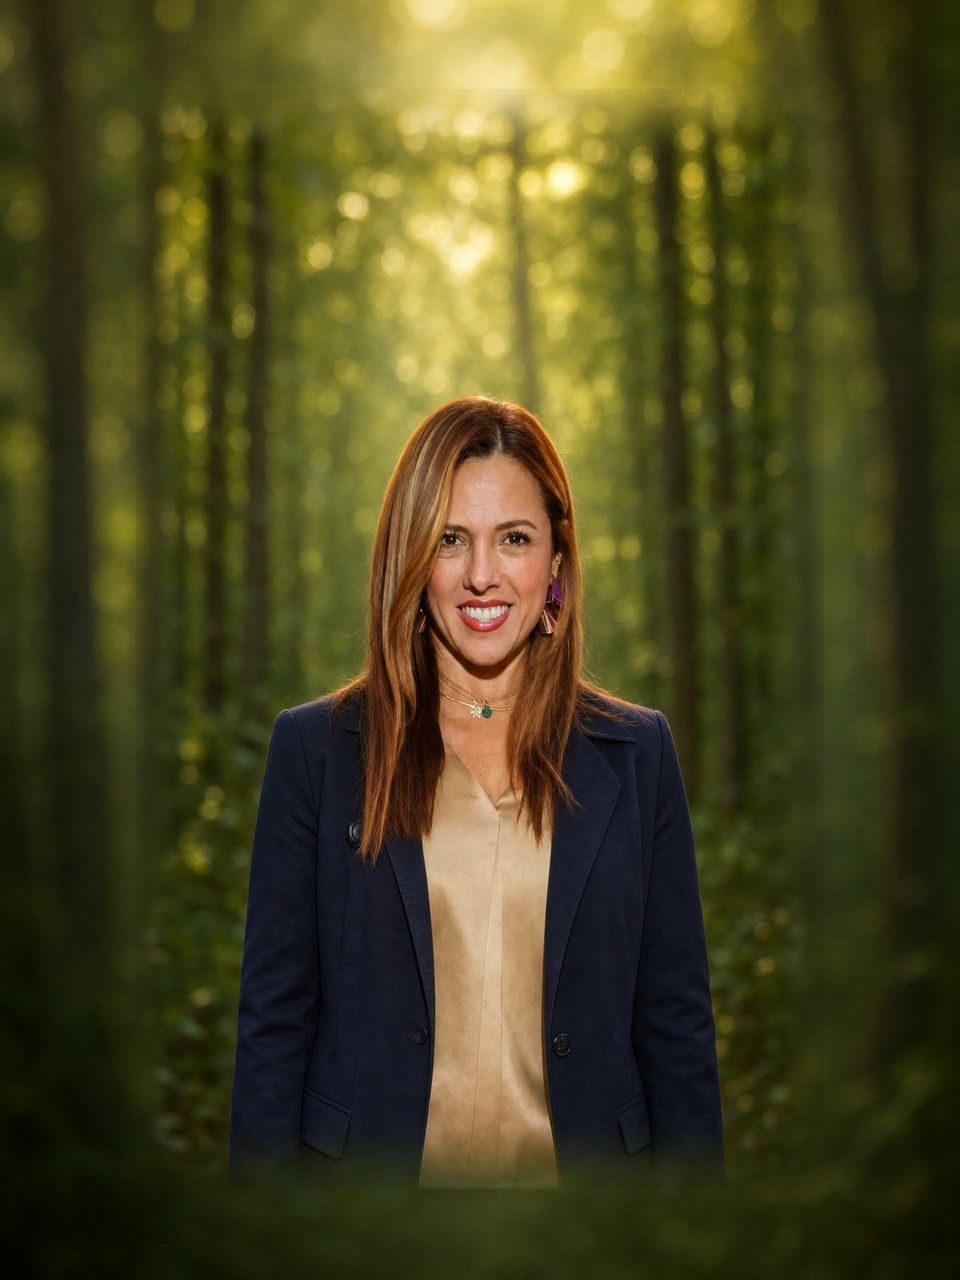
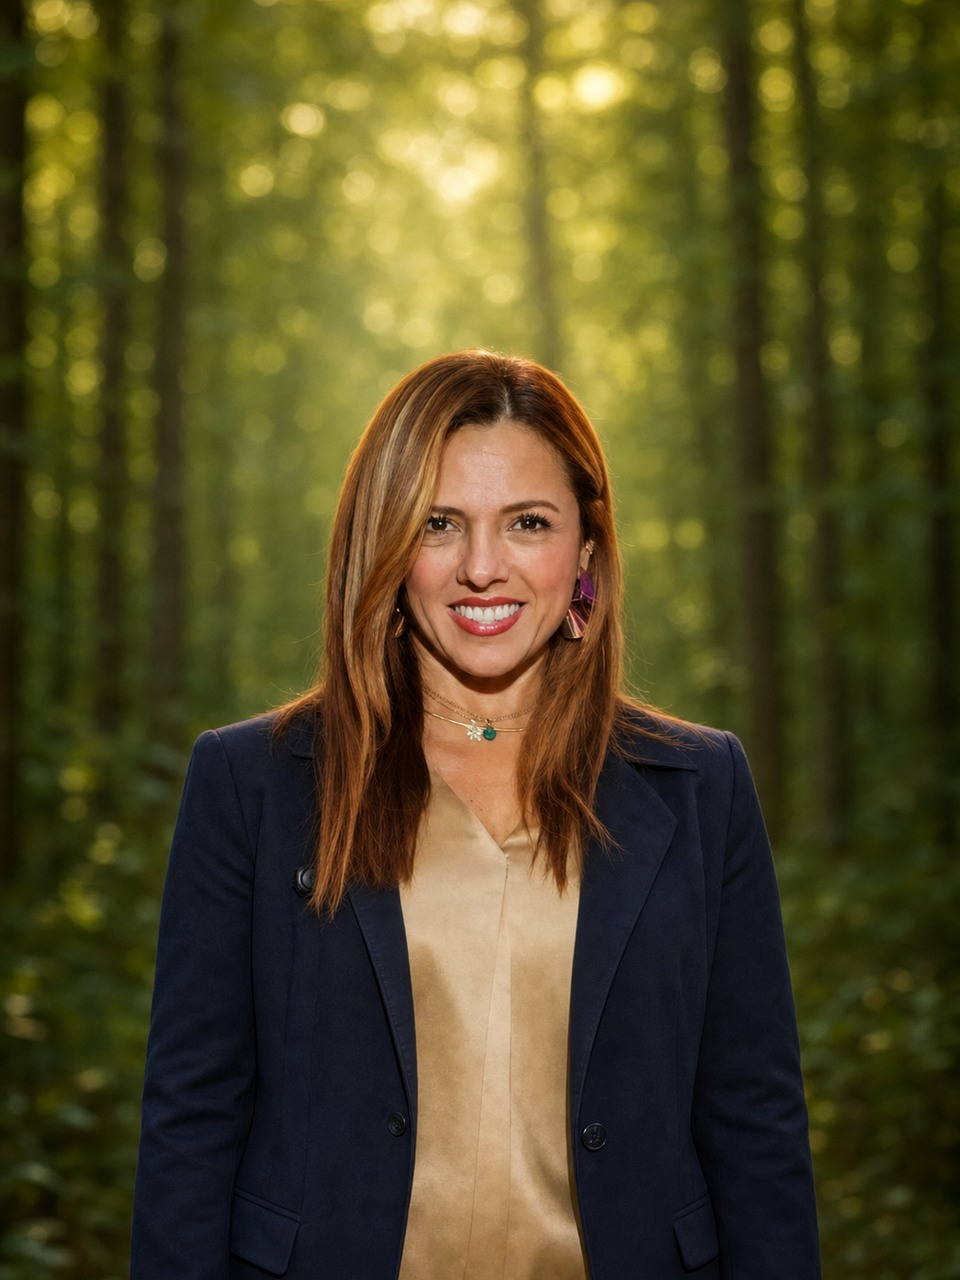
Fix hero proportions with intrinsic 3:4 frame and updated portrait assets.

diff --git a/site/src/style.css b/site/src/style.css
@@ -489,6 +489,12 @@ section[id],
   overflow: hidden;
   background: #e8eee8;
   box-shadow: var(--shadow-strong);
+  /* Intrinsic 3:4 box; width capped by viewport height so browsers never
+     force a non-uniform scale when max-height would otherwise fight width:100% */
+  aspect-ratio: 3 / 4;
+  width: min(100%, 435px, calc(min(640px, 72vh) * 3 / 4));
+  height: auto;
+  margin-inline: auto;
 }
 
 .hero-photo-card picture,
@@ -496,23 +502,22 @@ section[id],
 .portrait-photo picture {
   display: block;
   width: 100%;
+  height: auto;
 }
 
 .hero-photo-card img {
   width: 100%;
   height: auto;
   display: block;
-  object-fit: cover;
-  /* Keep crown headroom and both shoulders in frame */
-  object-position: center center;
+  /* Matches bitmap 960×1280 — uniform scale only */
   aspect-ratio: 3 / 4;
-  max-height: min(640px, 72vh);
+  object-fit: cover;
+  object-position: center center;
 }
 
 @media (min-width: 980px) {
-  .hero-photo-card img {
-    aspect-ratio: 3 / 4;
-    max-height: 580px;
+  .hero-photo-card {
+    width: min(100%, 435px, calc(580px * 3 / 4));
   }
 }
 
